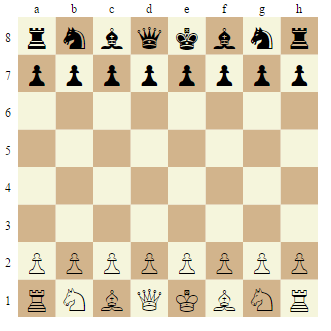
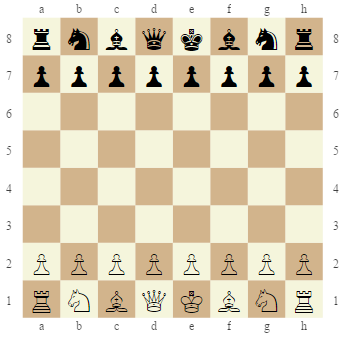
adding more parameter to other release

diff --git a/d3-chessboard.js b/d3-chessboard.js
@@ -4,11 +4,13 @@ function d3chessboard() {
   var whitecellcolor = "beige",
       blackcellcolor = "tan",
       fen = "rnbqkbnr/pppppppp/8/8/8/8/PPPPPPPP/RNBQKBNR w KQkq - 0 1",
-      fontsize = 35,
+      picefontsize = 35,
+      textfontsize = 16,
+      textopacity = 0.75,
       size = 400;
       
   // internal parameters
-  var margin = {top: 20, right: 20, bottom: 20, left: 20},
+  var margin = {top: 25, right: 25, bottom: 25, left: 25},
       cols = ["a", "b", "c", "d", "e", "f", "g", "h"],
       rows = [8, 7, 6, 5, 4, 3, 2, 1],
       griddata = cartesianprod(rows, rows);
@@ -41,50 +43,75 @@ function d3chessboard() {
         .append("g")
         .attr("transform", "translate(" + margin.left + "," + margin.top + ")");
 
-      var gridSizehor = Math.floor(size / cols.length),
-          gridSizever = Math.floor(size / rows.length);
+      var gridSize = Math.floor(size / cols.length)
 
       var colLabels = svg.selectAll(".colLabel")
           .data(cols)
           .enter().append("text")
             .text(function (d) { return d; })
             .attr("y", 0)
-            .attr("x", function (d, i) { return i * gridSizehor; })
+            .attr("x", function (d, i) { return i * gridSize; })
+            .attr("font-size", textfontsize)
             .style("text-anchor", "middle")
-            .attr("transform", "translate(" + gridSizehor / 2 + ", -6)")
+            .style("opacity", textopacity)
+            .attr("transform", "translate(" + gridSize / 2 + ", " + (size + gridSize/3) + "  )")
+
+      var colLabels2 = svg.selectAll(".colLabel")
+          .data(cols)
+          .enter().append("text")
+            .text(function (d) { return d; })
+            .attr("y", 0)
+            .attr("x", function (d, i) { return i * gridSize; })
+            .attr("font-size", textfontsize)
+            .style("text-anchor", "middle")
+            .style("opacity", textopacity)
+            .attr("transform", "translate(" + gridSize / 2 + ", " + -6 + "  )")
 
       var rowLabels = svg.selectAll(".rowLabel")
           .data(rows)
           .enter().append("text")
             .text(function(d) { return d; })
-            .attr("y", function(d, i) { return i * gridSizever; })
+            .attr("y", function(d, i) { return i * gridSize; })
             .attr("x", 0)
-            .style("text-anchor", "start")
-            .attr("transform", "translate(-18," + gridSizever / 1.5 + ")")
+            .attr("font-size", textfontsize)
+            .style("text-anchor", "middle")
+            .style("opacity", textopacity)
+            .attr("transform", "translate(-18," + gridSize / 1.5 + ")")
+
+      var rowLabels = svg.selectAll(".rowLabel")
+          .data(rows)
+          .enter().append("text")
+            .text(function(d) { return d; })
+            .attr("y", function(d, i) { return i * gridSize; })
+            .attr("x", 0)
+            .attr("font-size", textfontsize)
+            .style("text-anchor", "middle")
+            .style("opacity", textopacity)
+            .attr("transform", "translate(" + (size + 18) + "," + gridSize / 1.5 + ")")
 
       var chessBoard = svg.selectAll(".cell")
           .data(griddata)
           .enter().append("rect")
-          .attr("x", function(d) { return (d[1] - 1) * gridSizehor; })
-          .attr("y", function(d) { return (d[0] - 1) * gridSizever; })
+          .attr("x", function(d) { return (d[1] - 1) * gridSize; })
+          .attr("y", function(d) { return (d[0] - 1) * gridSize; })
           .attr("row", function(d){ return 9 - d[0]; })
           .attr("col", function(d){ return d[1]; })
           .attr("id", function(d){ return cols[d[1]-1] + (9 - d[0]); })
           .attr("fill", function(d){ if ((d[1]+d[0])%2 != 0) return blackcellcolor; else return whitecellcolor; })
-          .attr("width", gridSizehor)
-          .attr("height", gridSizever)
+          .attr("width", gridSize)
+          .attr("height", gridSize)
 
       var piecePositions = svg.selectAll(".piece")
           .data(griddata)
           .enter().append("text")
-          .attr("x", function(d) { return (d[1] - 1) * gridSizehor; })
-          .attr("y", function(d) { return (d[0] - 1) * gridSizever; })
+          .attr("x", function(d) { return (d[1] - 1) * gridSize; })
+          .attr("y", function(d) { return (d[0] - 1) * gridSize; })
           .attr("row", function(d){ return 9 - d[0]; })
           .attr("col", function(d){ return d[1]; })
           .style("text-anchor", "middle")
           .style("color", "white")
-          .attr("font-size", fontsize)
-          .attr("transform", "translate(" + gridSizehor / 2 + "," + gridSizever / 1.3 + ")")
+          .attr("font-size", picefontsize)
+          .attr("transform", "translate(" + gridSize / 2 + "," + gridSize / 1.3 + ")")
           .text(function(d, i){
             var cell = cols[d[1]-1] + (9 - d[0]);
             var chesscell = chess.get(cell);
@@ -100,9 +127,21 @@ function d3chessboard() {
     return board;
   };
 
-  board.fontsize = function(_) {
-    if (!arguments.length) return fontsize;
-    fontsize = _;
+  board.picefontsize = function(_) {
+    if (!arguments.length) return picefontsize;
+    picefontsize = _;
+    return board;
+  };
+
+  board.textfontsize = function(_) {
+    if (!arguments.length) return textfontsize;
+    textfontsize = _;
+    return board;
+  };
+
+  board.textopacity = function(_) {
+    if (!arguments.length) return textopacity;
+    textopacity = _;
     return board;
   };
 

diff --git a/index.html b/index.html
@@ -13,19 +13,23 @@
   <script type="text/javascript" src="d3-chessboard.js"></script>
   <script type="text/javascript">
     
+    /* Example 1 */
     var sel = d3.select("#chess-container");
     var board = d3chessboard();
     sel.call(board);
 
-
+    /* Example 2 */
     var fenstring = "rnbqkbnr/pp1ppppp/8/2p5/4P3/8/PPPP1PPP/RNBQKBNR w KQkq c6 0 2";
     var sel2 = d3.select("#chess-container2");
     var board2 = d3chessboard()
                     .fen(fenstring)
-                    .size(500)
-                    .fontsize(49)
+                    .size(450)
+                    .picefontsize(48)
+                    .textfontsize(20)
+                    .textopacity(0.5)
                     .whitecellcolor("#FAFAFA")
                     .blackcellcolor("#CCC");
+    
     sel2.call(board2);
 
   </script>

diff --git a/README.md b/README.md
@@ -1,6 +1,6 @@
-# D3 Chessboard ♕
+# ♕ d3-Chessboard 
 
-A chessboard *a la* D3. No CSS, no images, no (chess) validations, just a chessboard 
+**d3-Chessboard**  A chessboard *a la* D3. No CSS, no images, no (chess) validations, just a chessboard 
 using the spirit of [reusable charts](http://bost.ocks.org/mike/chart/).
 
 ## Live Demo
@@ -29,8 +29,10 @@ var fenstring = "rnbqkbnr/pp1ppppp/8/2p5/4P3/8/PPPP1PPP/RNBQKBNR w KQkq c6 0 2";
 var sel2 = d3.select("#chess-container2");
 var board2 = d3chessboard()
                 .fen(fenstring)
-                .size(500)
-                .fontsize(49)
+                .size(450)
+                .picefontsize(48)
+                .textfontsize(20)
+                .textopacity(0.5)
                 .whitecellcolor("#FAFAFA")
                 .blackcellcolor("#CCC");
 sel2.call(board2);
@@ -53,5 +55,10 @@ Aps! Obviously you need [d3js](http://d3js.org/) too!
 6. http://stackoverflow.com/questions/12303989/cartesian-product-of-multiple-arrays-in-javascript
 
 ## News
+- Version 0.1.2 released. Adding `picefontsize`, `textfontsize`, `textopacity` parameters,  (2015-06-26).
 - Version 0.1.1 released. parameters `width` and `heigth` replaced with `size`  (2015-06-24).
 - Version 0.1 released (2015-06-23). 
+
+## Future Work
+
+- Posibility to implement other chess fonts or svg images.
